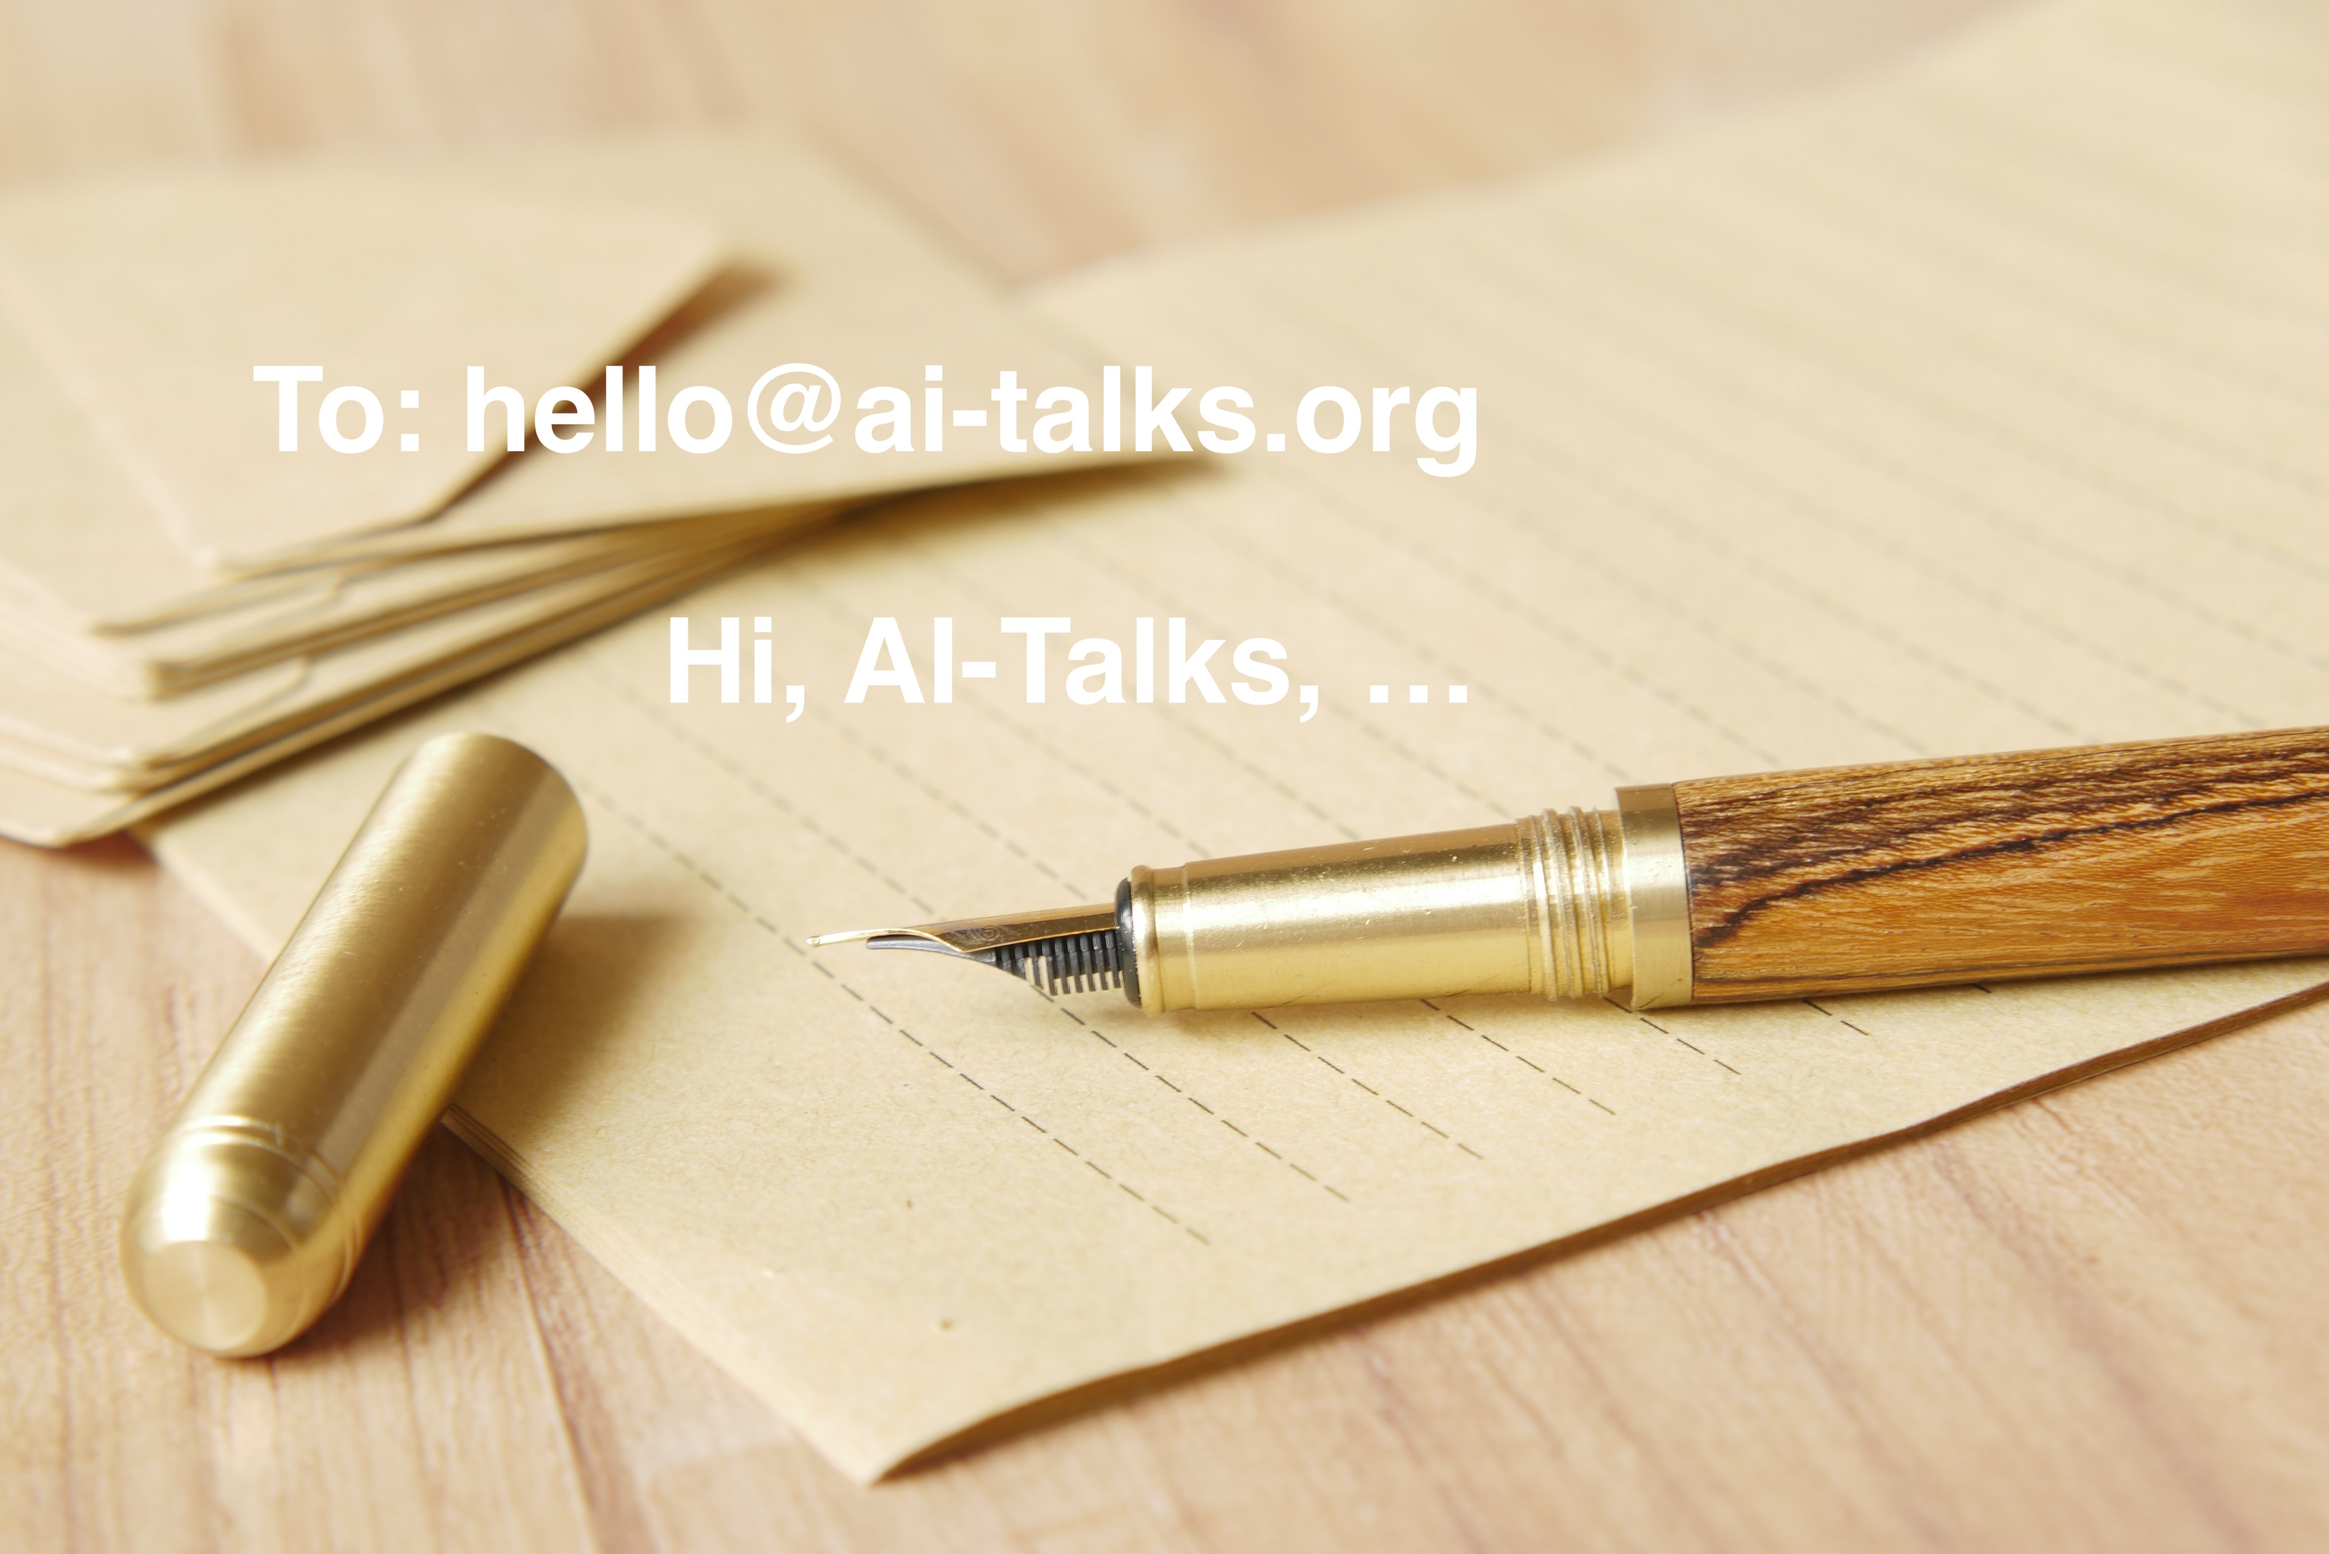
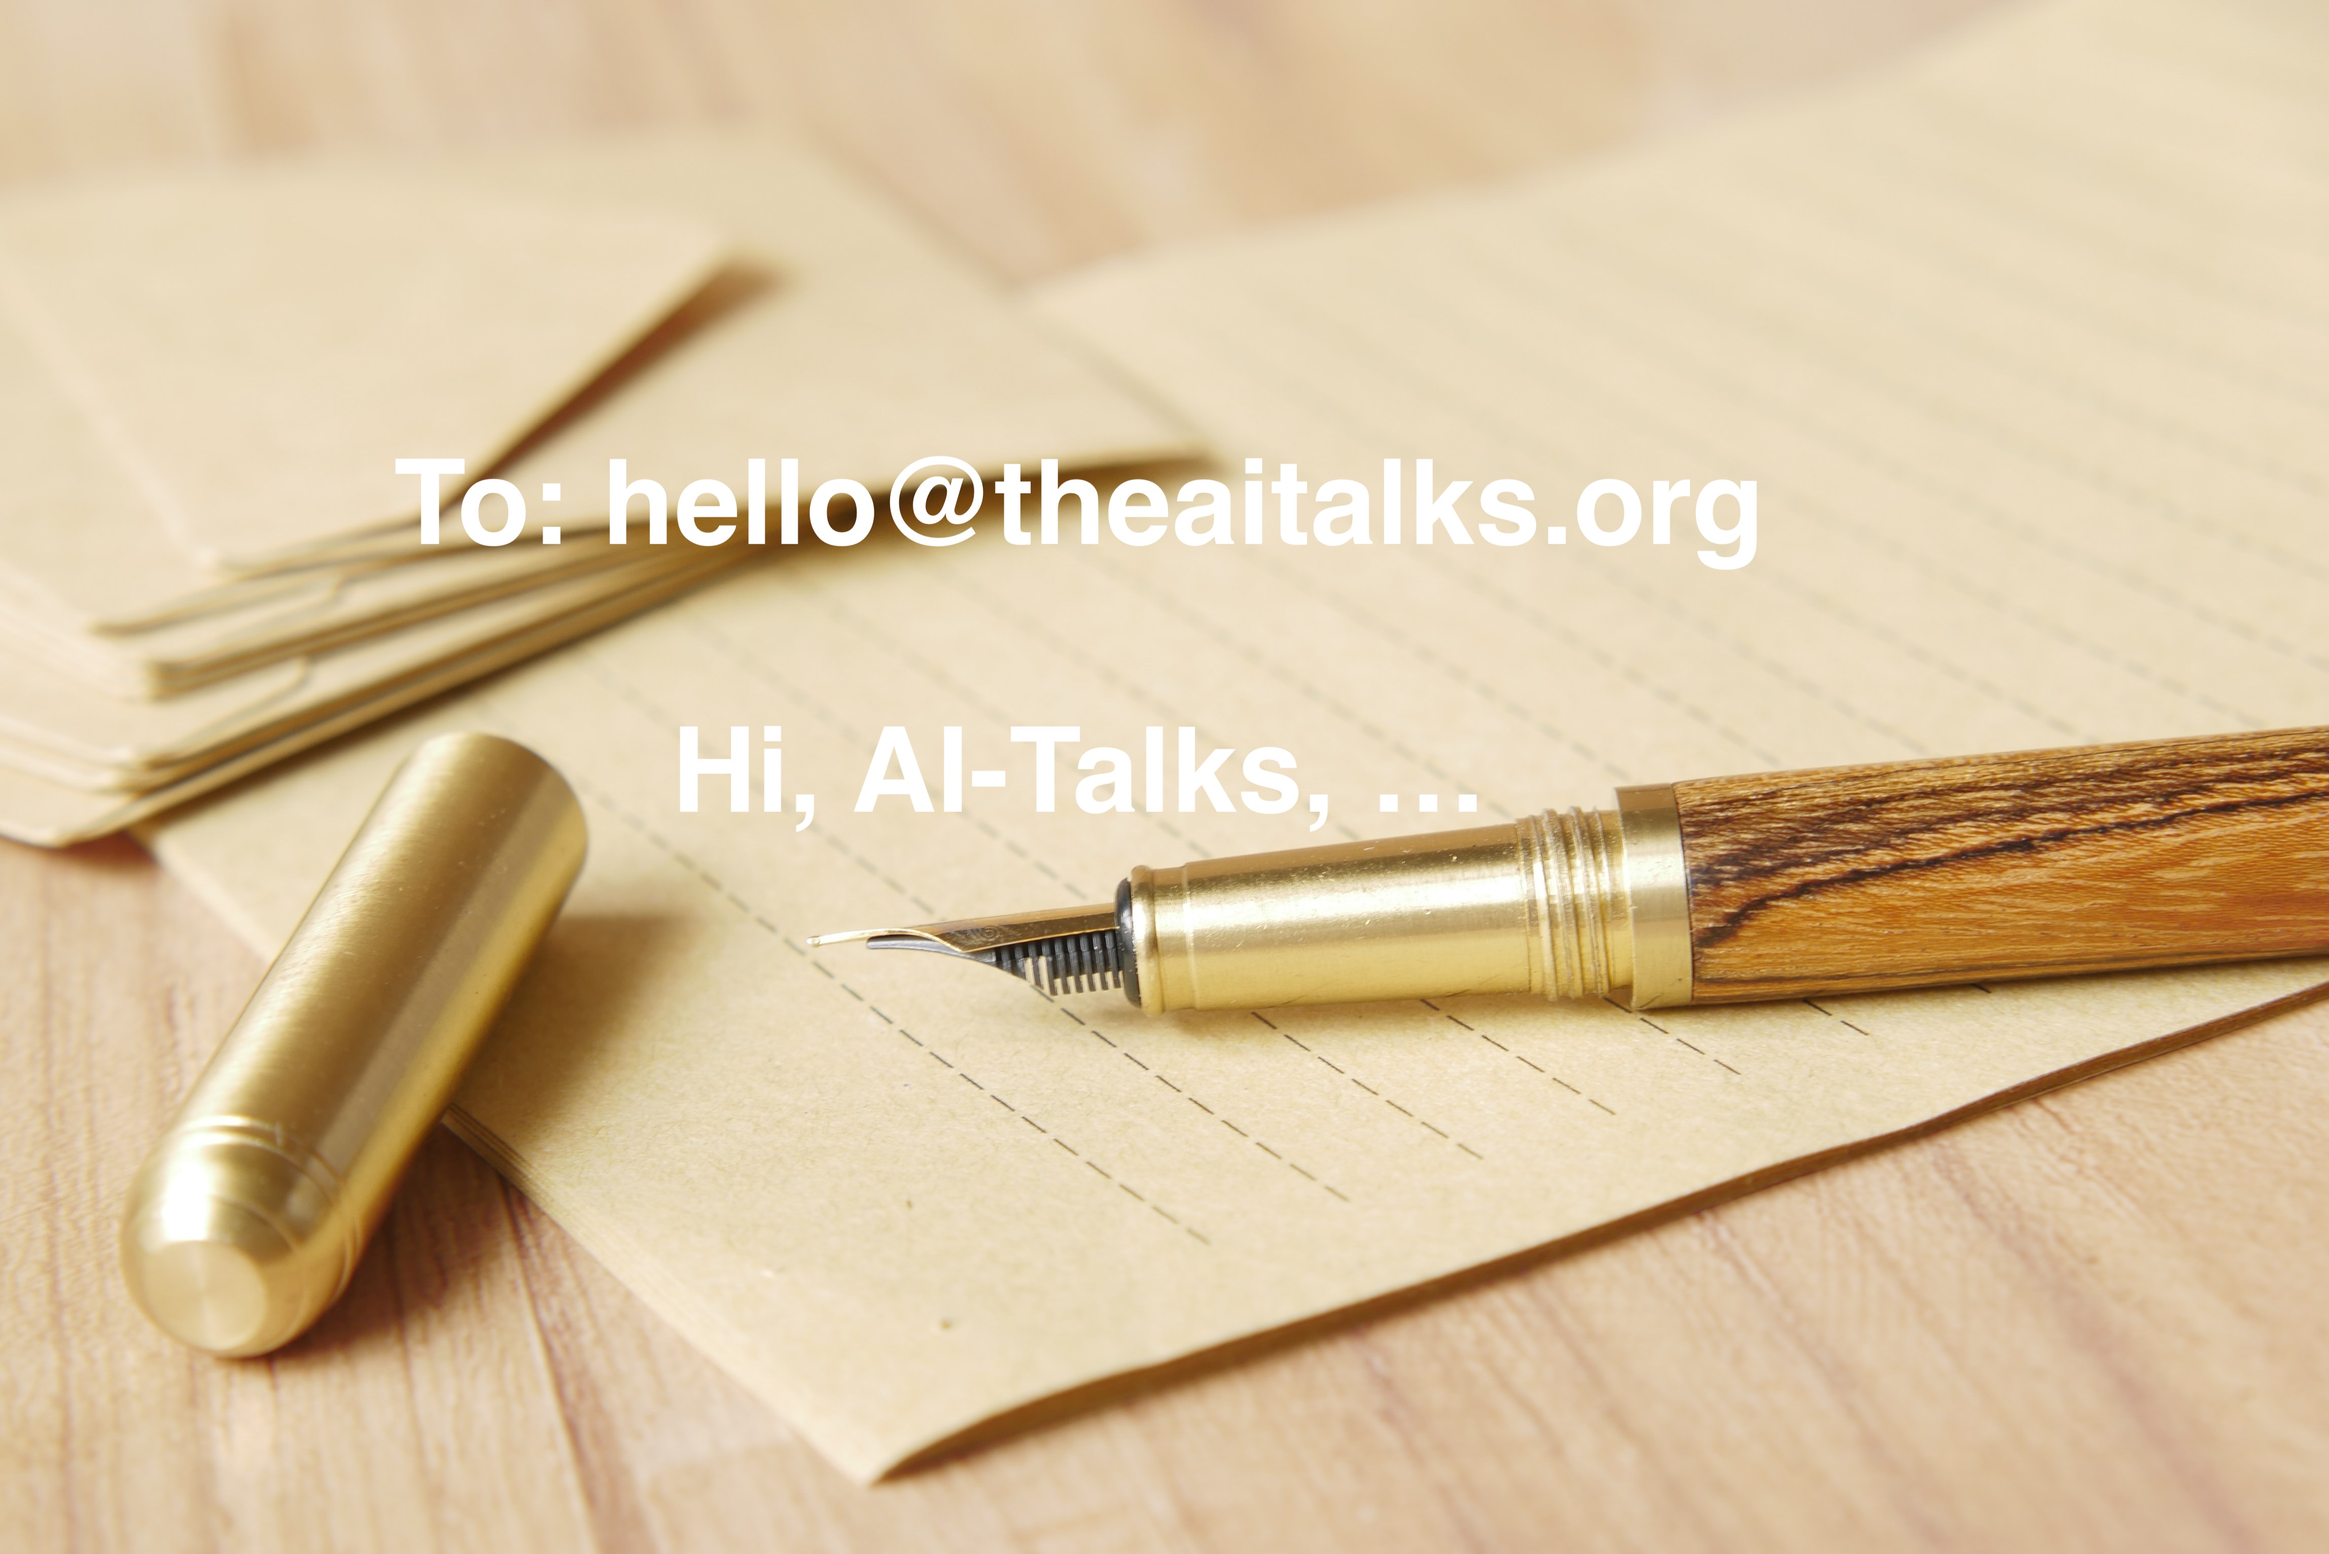
update site

Changed region(s): [[0.0934, 0.217, 0.7785, 0.5271]]

diff --git a/talks/example/index.html b/talks/example/index.html
@@ -22,7 +22,7 @@ Video Coming soon. Stay tuned. :)"/>
 <meta property="og:description" content="Abstract Here is the abstract of the talk.
 Video Coming soon. Stay tuned. :)" />
 <meta property="og:type" content="article" />
-<meta property="og:url" content="http://ai-talks.org/talks/example/" /><meta property="article:section" content="talks" />
+<meta property="og:url" content="http://theaitalks.org/talks/example/" /><meta property="article:section" content="talks" />
 <meta property="article:published_time" content="2022-07-24T00:00:00+00:00" />
 <meta property="article:modified_time" content="2022-07-24T00:00:00+00:00" />
 
@@ -32,7 +32,7 @@ Video Coming soon. Stay tuned. :)" />
   <title>AI-Talks@SG</title>
 
   
-  <link rel="canonical" href="http://ai-talks.org/talks/example/">
+  <link rel="canonical" href="http://theaitalks.org/talks/example/">
   
 
   <link rel="preload" href="/fonts/forkawesome-webfont.woff2?v=1.2.0" as="font" type="font/woff2" crossorigin>
@@ -148,7 +148,7 @@ Video Coming soon. Stay tuned. :)" />
       <header>
         <div class="post-title">
           <h1 class="title">
-            <a class="title-link" href="http://ai-talks.org/talks/example/">
+            <a class="title-link" href="http://theaitalks.org/talks/example/">
               Title of the talk
             </a>
           </h1>

diff --git a/subscribe/index.html b/subscribe/index.html
@@ -22,7 +22,7 @@ Email address: powered by TinyLetter"/>
 <meta property="og:description" content="Please subscribe to our newsletter to receive the latest updates. :)
 Email address: powered by TinyLetter" />
 <meta property="og:type" content="article" />
-<meta property="og:url" content="http://ai-talks.org/subscribe/" /><meta property="article:section" content="" />
+<meta property="og:url" content="http://theaitalks.org/subscribe/" /><meta property="article:section" content="" />
 <meta property="article:published_time" content="2022-07-19T00:00:00+00:00" />
 <meta property="article:modified_time" content="2022-07-19T00:00:00+00:00" />
 
@@ -32,7 +32,7 @@ Email address: powered by TinyLetter" />
   <title>AI-Talks@SG</title>
 
   
-  <link rel="canonical" href="http://ai-talks.org/subscribe/">
+  <link rel="canonical" href="http://theaitalks.org/subscribe/">
   
 
   <link rel="preload" href="/fonts/forkawesome-webfont.woff2?v=1.2.0" as="font" type="font/woff2" crossorigin>
@@ -147,7 +147,7 @@ Email address: powered by TinyLetter" />
   <article>
     <header>
       <h1 class="title">
-        <a class="title-link" href="http://ai-talks.org/subscribe/">
+        <a class="title-link" href="http://theaitalks.org/subscribe/">
           Subscribe
         </a>
       </h1>

diff --git a/people/index.html b/people/index.html
@@ -34,7 +34,7 @@ Hulk Avengers, US
 Black Widow Avengers, US
 Hawkeye Avengers, US" />
 <meta property="og:type" content="article" />
-<meta property="og:url" content="http://ai-talks.org/people/" /><meta property="article:section" content="" />
+<meta property="og:url" content="http://theaitalks.org/people/" /><meta property="article:section" content="" />
 <meta property="article:published_time" content="2022-07-18T00:00:00+00:00" />
 <meta property="article:modified_time" content="2022-07-18T00:00:00+00:00" />
 
@@ -44,7 +44,7 @@ Hawkeye Avengers, US" />
   <title>AI-Talks@SG</title>
 
   
-  <link rel="canonical" href="http://ai-talks.org/people/">
+  <link rel="canonical" href="http://theaitalks.org/people/">
   
 
   <link rel="preload" href="/fonts/forkawesome-webfont.woff2?v=1.2.0" as="font" type="font/woff2" crossorigin>
@@ -159,7 +159,7 @@ Hawkeye Avengers, US" />
   <article>
     <header>
       <h1 class="title">
-        <a class="title-link" href="http://ai-talks.org/people/">
+        <a class="title-link" href="http://theaitalks.org/people/">
           People
         </a>
       </h1>

diff --git a/contact/index.html b/contact/index.html
@@ -19,7 +19,7 @@
 <meta property="og:title" content="Contact" />
 <meta property="og:description" content=" " />
 <meta property="og:type" content="article" />
-<meta property="og:url" content="http://ai-talks.org/contact/" /><meta property="article:section" content="" />
+<meta property="og:url" content="http://theaitalks.org/contact/" /><meta property="article:section" content="" />
 <meta property="article:published_time" content="2022-07-18T00:00:00+00:00" />
 <meta property="article:modified_time" content="2022-07-18T00:00:00+00:00" />
 
@@ -29,7 +29,7 @@
   <title>AI-Talks@SG</title>
 
   
-  <link rel="canonical" href="http://ai-talks.org/contact/">
+  <link rel="canonical" href="http://theaitalks.org/contact/">
   
 
   <link rel="preload" href="/fonts/forkawesome-webfont.woff2?v=1.2.0" as="font" type="font/woff2" crossorigin>
@@ -144,7 +144,7 @@
   <article>
     <header>
       <h1 class="title">
-        <a class="title-link" href="http://ai-talks.org/contact/">
+        <a class="title-link" href="http://theaitalks.org/contact/">
           Contact
         </a>
       </h1>

diff --git a/about/index.html b/about/index.html
@@ -19,7 +19,7 @@
 <meta property="og:title" content="About" />
 <meta property="og:description" content=" " />
 <meta property="og:type" content="article" />
-<meta property="og:url" content="http://ai-talks.org/about/" /><meta property="article:section" content="" />
+<meta property="og:url" content="http://theaitalks.org/about/" /><meta property="article:section" content="" />
 <meta property="article:published_time" content="2022-07-18T00:00:00+00:00" />
 <meta property="article:modified_time" content="2022-07-18T00:00:00+00:00" />
 
@@ -29,7 +29,7 @@
   <title>AI-Talks@SG</title>
 
   
-  <link rel="canonical" href="http://ai-talks.org/about/">
+  <link rel="canonical" href="http://theaitalks.org/about/">
   
 
   <link rel="preload" href="/fonts/forkawesome-webfont.woff2?v=1.2.0" as="font" type="font/woff2" crossorigin>
@@ -144,7 +144,7 @@
   <article>
     <header>
       <h1 class="title">
-        <a class="title-link" href="http://ai-talks.org/about/">
+        <a class="title-link" href="http://theaitalks.org/about/">
           About
         </a>
       </h1>

diff --git a/404.html b/404.html
@@ -19,7 +19,7 @@
 <meta property="og:title" content="404 Page not found" />
 <meta property="og:description" content="AI-Talks@SG" />
 <meta property="og:type" content="website" />
-<meta property="og:url" content="http://ai-talks.org/404.html" />
+<meta property="og:url" content="http://theaitalks.org/404.html" />
 
 
 
@@ -27,7 +27,7 @@
   <title>AI-Talks@SG</title>
 
   
-  <link rel="canonical" href="http://ai-talks.org/404.html">
+  <link rel="canonical" href="http://theaitalks.org/404.html">
   
 
   <link rel="preload" href="/fonts/forkawesome-webfont.woff2?v=1.2.0" as="font" type="font/woff2" crossorigin>
@@ -142,7 +142,7 @@
   <div class="error">
     <h1>404</h1>
     <h2>Page Not Found</h2>
-    <p>Sorry, this page does not exist.<br />You can head back to the <a href="http://ai-talks.org/">homepage</a>.</p>
+    <p>Sorry, this page does not exist.<br />You can head back to the <a href="http://theaitalks.org/">homepage</a>.</p>
   </div>
 </section>
 

diff --git a/categories/index.html b/categories/index.html
@@ -19,7 +19,7 @@
 <meta property="og:title" content="Categories" />
 <meta property="og:description" content="AI-Talks@SG" />
 <meta property="og:type" content="website" />
-<meta property="og:url" content="http://ai-talks.org/categories/" />
+<meta property="og:url" content="http://theaitalks.org/categories/" />
 
 
 
@@ -27,7 +27,7 @@
   <title>AI-Talks@SG</title>
 
   
-  <link rel="canonical" href="http://ai-talks.org/categories/">
+  <link rel="canonical" href="http://theaitalks.org/categories/">
   
 
   <link rel="preload" href="/fonts/forkawesome-webfont.woff2?v=1.2.0" as="font" type="font/woff2" crossorigin>
@@ -141,7 +141,7 @@
       
   <section class="container taxonomy">
   <h1 class="title">
-    <a class="title-link" href="http://ai-talks.org/categories/">Categories</a>
+    <a class="title-link" href="http://theaitalks.org/categories/">Categories</a>
   </h1>
   
   <ul>

diff --git a/authors/index.html b/authors/index.html
@@ -19,7 +19,7 @@
 <meta property="og:title" content="Authors" />
 <meta property="og:description" content="AI-Talks@SG" />
 <meta property="og:type" content="website" />
-<meta property="og:url" content="http://ai-talks.org/authors/" />
+<meta property="og:url" content="http://theaitalks.org/authors/" />
 
 
 
@@ -27,7 +27,7 @@
   <title>AI-Talks@SG</title>
 
   
-  <link rel="canonical" href="http://ai-talks.org/authors/">
+  <link rel="canonical" href="http://theaitalks.org/authors/">
   
 
   <link rel="preload" href="/fonts/forkawesome-webfont.woff2?v=1.2.0" as="font" type="font/woff2" crossorigin>
@@ -141,7 +141,7 @@
       
   <section class="container taxonomy">
   <h1 class="title">
-    <a class="title-link" href="http://ai-talks.org/authors/">Authors</a>
+    <a class="title-link" href="http://theaitalks.org/authors/">Authors</a>
   </h1>
   
   <ul>

diff --git a/series/index.html b/series/index.html
@@ -19,7 +19,7 @@
 <meta property="og:title" content="Series" />
 <meta property="og:description" content="AI-Talks@SG" />
 <meta property="og:type" content="website" />
-<meta property="og:url" content="http://ai-talks.org/series/" />
+<meta property="og:url" content="http://theaitalks.org/series/" />
 
 
 
@@ -27,7 +27,7 @@
   <title>AI-Talks@SG</title>
 
   
-  <link rel="canonical" href="http://ai-talks.org/series/">
+  <link rel="canonical" href="http://theaitalks.org/series/">
   
 
   <link rel="preload" href="/fonts/forkawesome-webfont.woff2?v=1.2.0" as="font" type="font/woff2" crossorigin>
@@ -141,7 +141,7 @@
       
   <section class="container taxonomy">
   <h1 class="title">
-    <a class="title-link" href="http://ai-talks.org/series/">Series</a>
+    <a class="title-link" href="http://theaitalks.org/series/">Series</a>
   </h1>
   
   <ul>

diff --git a/index.html b/index.html
@@ -19,7 +19,7 @@
 <meta property="og:title" content="AI-Talks@SG" />
 <meta property="og:description" content="AI-Talks@SG" />
 <meta property="og:type" content="website" />
-<meta property="og:url" content="http://ai-talks.org/" />
+<meta property="og:url" content="http://theaitalks.org/" />
 
 
 
@@ -27,7 +27,7 @@
   <title>AI-Talks@SG</title>
 
   
-  <link rel="canonical" href="http://ai-talks.org/">
+  <link rel="canonical" href="http://theaitalks.org/">
   
 
   <link rel="preload" href="/fonts/forkawesome-webfont.woff2?v=1.2.0" as="font" type="font/woff2" crossorigin>
@@ -160,7 +160,7 @@
   
     
       <li>
-        <a href="mailto:hello@ai-talks.org" aria-label="Email"   >
+        <a href="mailto:hello@theaitalks.org" aria-label="Email"   >
           <i class="fa fa-2x fa-envelope" aria-hidden="true"></i>
         </a>
       </li>

diff --git a/talks/index.html b/talks/index.html
@@ -19,7 +19,7 @@
 <meta property="og:title" content="Talks" />
 <meta property="og:description" content="AI-Talks@SG" />
 <meta property="og:type" content="website" />
-<meta property="og:url" content="http://ai-talks.org/talks/" />
+<meta property="og:url" content="http://theaitalks.org/talks/" />
 
 
 
@@ -27,7 +27,7 @@
   <title>AI-Talks@SG</title>
 
   
-  <link rel="canonical" href="http://ai-talks.org/talks/">
+  <link rel="canonical" href="http://theaitalks.org/talks/">
   
 
   <link rel="preload" href="/fonts/forkawesome-webfont.woff2?v=1.2.0" as="font" type="font/woff2" crossorigin>
@@ -141,7 +141,7 @@
       
   <section class="container list">
     <h1 class="title">
-      <a class="title-link" href="http://ai-talks.org/talks/">
+      <a class="title-link" href="http://theaitalks.org/talks/">
         Talks
       </a>
     </h1>

diff --git a/tags/index.html b/tags/index.html
@@ -19,7 +19,7 @@
 <meta property="og:title" content="Tags" />
 <meta property="og:description" content="AI-Talks@SG" />
 <meta property="og:type" content="website" />
-<meta property="og:url" content="http://ai-talks.org/tags/" />
+<meta property="og:url" content="http://theaitalks.org/tags/" />
 
 
 
@@ -27,7 +27,7 @@
   <title>AI-Talks@SG</title>
 
   
-  <link rel="canonical" href="http://ai-talks.org/tags/">
+  <link rel="canonical" href="http://theaitalks.org/tags/">
   
 
   <link rel="preload" href="/fonts/forkawesome-webfont.woff2?v=1.2.0" as="font" type="font/woff2" crossorigin>
@@ -141,7 +141,7 @@
       
   <section class="container taxonomy">
   <h1 class="title">
-    <a class="title-link" href="http://ai-talks.org/tags/">Tags</a>
+    <a class="title-link" href="http://theaitalks.org/tags/">Tags</a>
   </h1>
   
   <ul>
